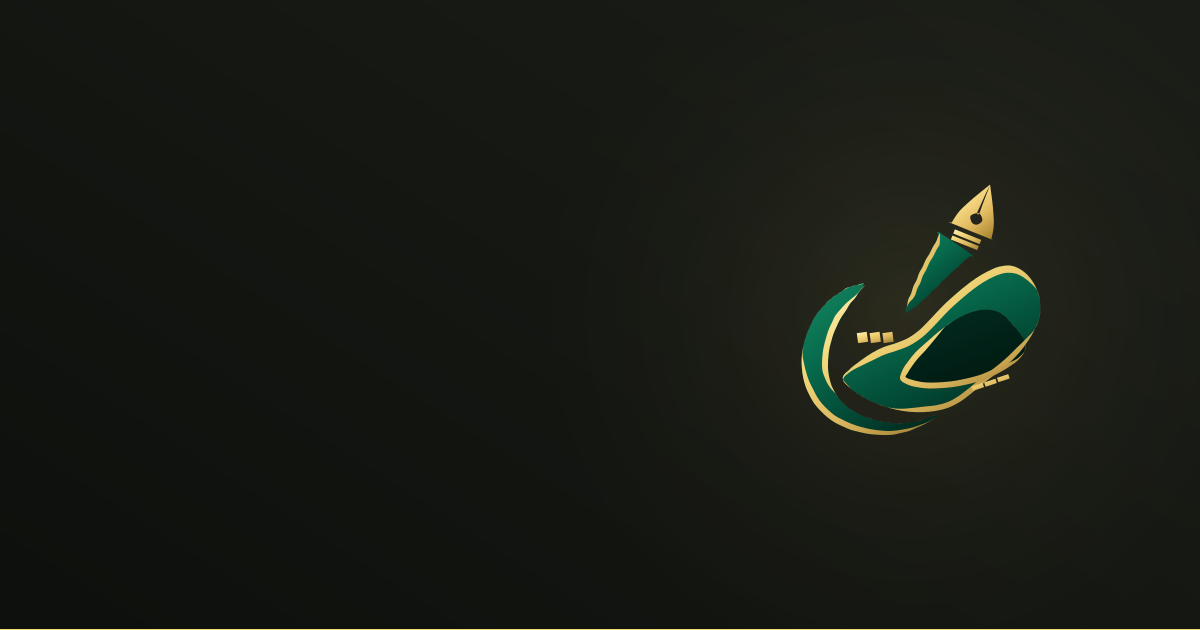
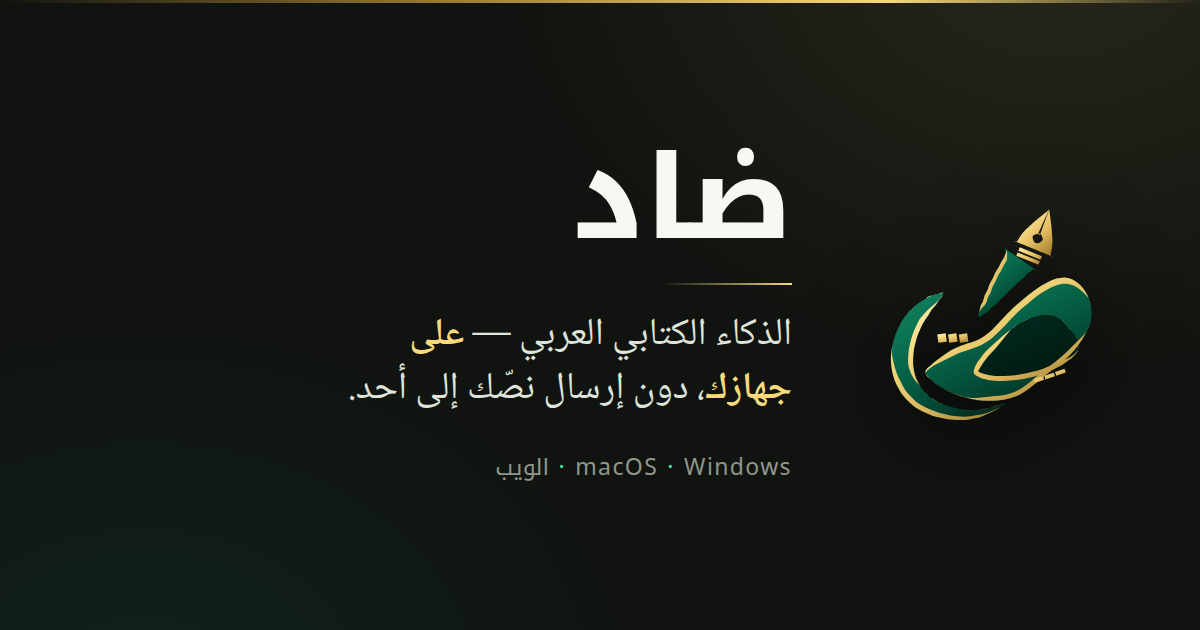
brand: make the share card carry the product, not just the mark
`docs/brand/og-card.png` was the mark alone on an otherwise empty 1200×630
field. At the width a feed actually renders an Open Graph image — around 500px
— that reduces to a dark rectangle with an unreadable smudge in the corner,
which is the one job the card has and the one it was not doing.

The card now carries the mark, the name, what the product is for, and the
platforms it runs on, on the same ground and under the same single raking
light as every other surface.

It is rendered, not drawn. `tools/render/og-card.html` is the source and it
references rather than copies: the geometry comes from
`docs/brand/dhad-mark.svg` and the type from the shipped woff2 files, so the
card cannot drift away from the identity it advertises. Open it at 1200×630,
dpr 1, and screenshot.

Claude-Session: https://claude.ai/code/session_01V994NQpLE3QinKTqmb1QxW

diff --git a/tools/render/og-card.html b/tools/render/og-card.html
@@ -1,0 +1,129 @@
+<!doctype html>
+<html lang="ar" dir="rtl">
+<head>
+<meta charset="utf-8">
+<title>ضاد — مصدر بطاقة المشاركة</title>
+<!--
+  The source of docs/brand/og-card.png.
+
+  The card is rendered, never drawn. Open this file at exactly 1200×630 with a
+  device pixel ratio of 1 and screenshot it:
+
+      docs/brand/og-card.png  ←  tools/render/og-card.html
+
+  Everything it shows is referenced, not copied — the mark comes from
+  docs/brand/dhad-mark.svg and the type from the same self-hosted woff2 files
+  the product ships — so the card cannot drift away from the identity it is
+  supposed to be advertising. Re-render it after any change to either.
+
+  The previous card was the mark alone on an empty field. At the width a feed
+  actually renders an OG image (~500px) that reduced to a dark rectangle with
+  an unreadable smudge in it, which is why the name, the promise and the
+  platforms are on the card now.
+-->
+<style>
+@font-face {
+  font-family: "Dhad Kufi";
+  font-weight: 100 900;
+  src: url("../../docs/fonts/dhad-kufi-arabic.woff2") format("woff2");
+  unicode-range: U+0600-06FF, U+0750-077F, U+08A0-08FF, U+FB50-FDFF, U+FE70-FEFF;
+}
+@font-face {
+  font-family: "Dhad Kufi";
+  font-weight: 100 900;
+  src: url("../../docs/fonts/dhad-kufi-latin.woff2") format("woff2");
+  unicode-range: U+0000-00FF, U+2000-206F;
+}
+@font-face {
+  font-family: "Dhad Naskh";
+  font-weight: 100 900;
+  src: url("../../docs/fonts/dhad-naskh-arabic.woff2") format("woff2");
+  unicode-range: U+0600-06FF, U+0750-077F, U+08A0-08FF, U+FB50-FDFF, U+FE70-FEFF;
+}
+@font-face {
+  font-family: "Dhad Naskh";
+  font-weight: 100 900;
+  src: url("../../docs/fonts/dhad-naskh-latin.woff2") format("woff2");
+  unicode-range: U+0000-00FF, U+2000-206F;
+}
+
+* { margin: 0; padding: 0; box-sizing: border-box; }
+body { width: 1200px; height: 630px; overflow: hidden; }
+
+.card {
+  position: relative;
+  width: 1200px;
+  height: 630px;
+  display: grid;
+  grid-template-columns: auto 1fr;
+  align-items: center;
+  gap: 64px;
+  padding: 0 92px;
+  /* the same ground, and the same one raking light, as every product surface */
+  background:
+    radial-gradient(80% 120% at 88% -10%, rgba(245, 217, 124, 0.1), transparent 58%),
+    radial-gradient(70% 100% at 12% 110%, rgba(11, 133, 96, 0.13), transparent 62%),
+    #111310;
+  font-family: "Dhad Naskh", serif;
+}
+.card::before {
+  content: "";
+  position: absolute;
+  inset: 0 0 auto 0;
+  height: 3px;
+  background: linear-gradient(to left, transparent, #f5d97c 26%, #9e7e34 62%, transparent);
+}
+
+.mark {
+  display: block;
+  width: 252px;
+  height: 252px;
+  filter: drop-shadow(0 18px 44px rgba(0, 0, 0, 0.55));
+}
+
+.wordmark {
+  font-family: "Dhad Kufi", sans-serif;
+  font-weight: 800;
+  font-size: 116px;
+  line-height: 1;
+  letter-spacing: -0.01em;
+  color: #f6f8f2;
+}
+.rule {
+  width: 132px;
+  height: 2px;
+  margin: 26px 0 24px;
+  background: linear-gradient(to left, #f5d97c, rgba(245, 217, 124, 0));
+}
+.lede {
+  max-width: 21ch;
+  font-size: 38px;
+  line-height: 1.42;
+  color: #dfe4da;
+}
+.lede b {
+  font-weight: 600;
+  color: #f5d97c;
+}
+.platforms {
+  margin-top: 30px;
+  font-family: "Dhad Kufi", sans-serif;
+  font-size: 23px;
+  letter-spacing: 0.06em;
+  color: #8f978b;
+}
+.platforms span { color: #4fe0ab; }
+</style>
+</head>
+<body>
+  <div class="card">
+    <img class="mark" src="../../docs/brand/dhad-mark.svg" alt="">
+    <div>
+      <p class="wordmark">ضاد</p>
+      <div class="rule"></div>
+      <p class="lede">الذكاء الكتابي العربي — <b>على جهازك</b>، دون إرسال نصّك إلى أحد.</p>
+      <p class="platforms">macOS <span>·</span> Windows <span>·</span> الويب</p>
+    </div>
+  </div>
+</body>
+</html>
